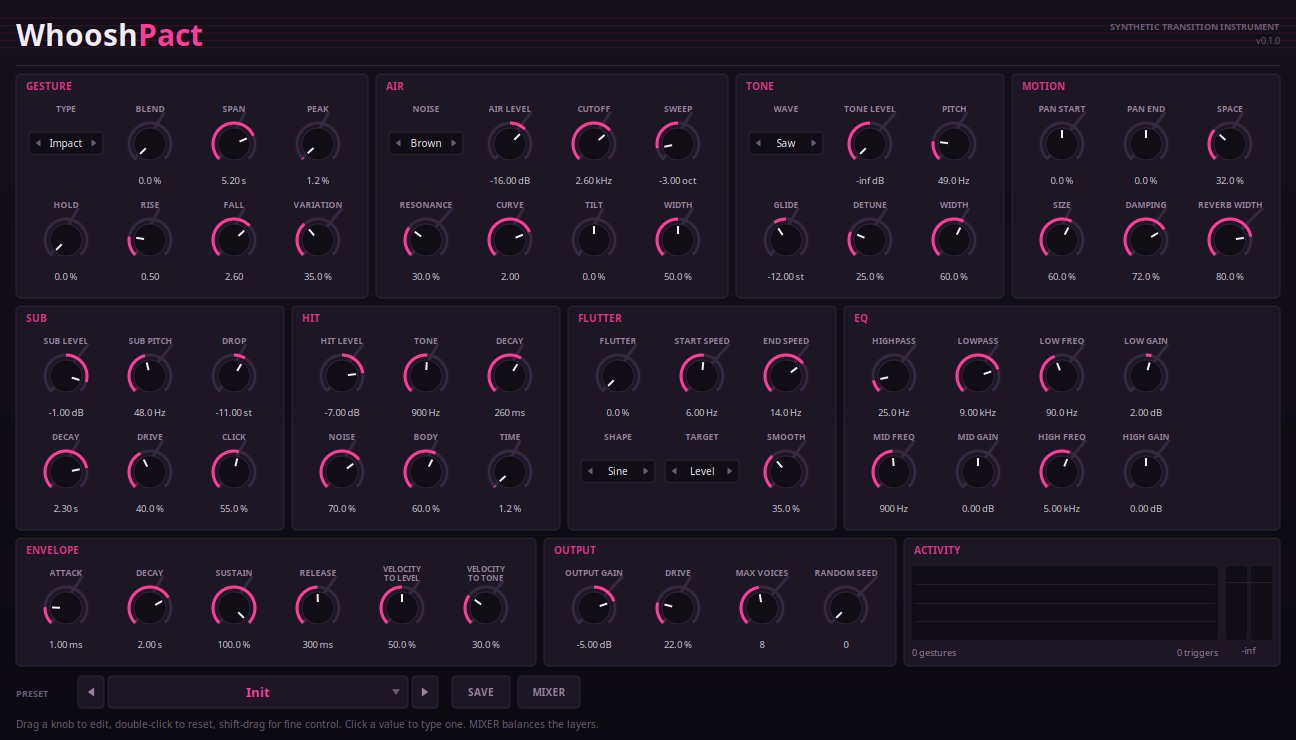
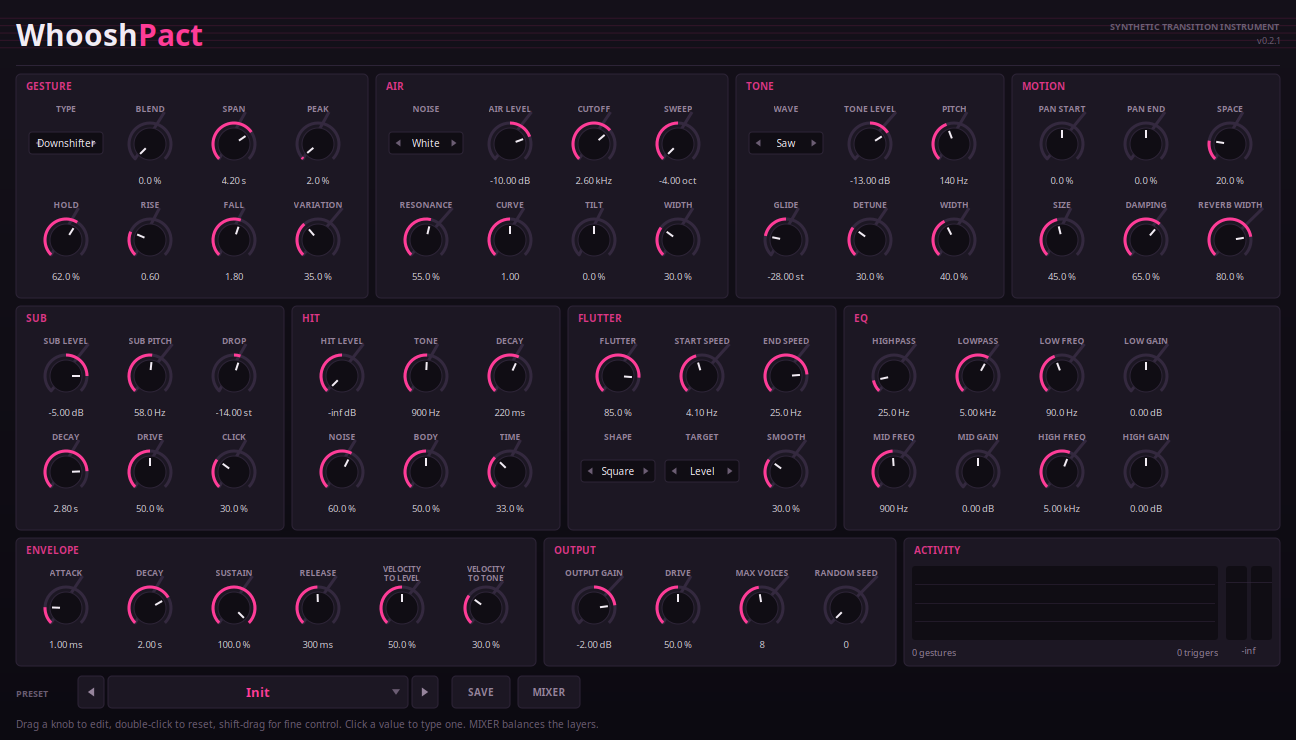
Suite: mark WhooshPact as the non-nature instrument, and retake its screenshot
The suite is presented as instruments that model natural sound sources, which is
true of seven of the eight. WhooshPact is a production-effects instrument for
transitions, impacts and stings, and reading the front page gave no way to tell.

- The subtitle now covers both, and a paragraph after the opening rule says
  plainly that WhooshPact models no natural source and is an addition to the
  suite rather than part of its nature collection.
- The plugin table marks it as not a natural source, and carries 0.2.1.
- ThunderClap's paragraph said 17 presets; it ships 18.

The window screenshot was taken at 0.1.0 and showed that version in its header.
Retaken at 0.2.1 with Stutter Scream loaded, which is the only factory preset
that puts the Flutter section to work -- every previous shot left that panel
reading as inert.

diff --git a/README.md b/README.md
@@ -7,7 +7,8 @@
 </p>
 
 <p align="center">
-  <strong>A suite of native CLAP and VST3 instruments that synthesise the weather.</strong><br>
+  <strong>A suite of native CLAP and VST3 instruments that synthesise the weather —<br>
+  and one that synthesises the effects you cut it with.</strong><br>
   Every sound the instruments make is computed at run time.
 </p>
 
@@ -17,6 +18,12 @@ Verdalis is a family of audio plugins built around a single rule: **nothing is
 sampled.** Every sound is generated from noise, oscillators, filters and the
 physical statistics of the phenomenon being modelled. No two instances ever
 produce the same output.
+
+Most of them model a natural sound source. **WhooshPact does not, and is not
+meant to** — it is a production-effects instrument for transitions, impacts and
+stings, built to the same synthesis-only rule and sharing the same foundation.
+Treat it as an addition to the suite rather than as part of its nature
+collection.
 
 Each plugin is a self-contained instrument with its own synthesis engine, its
 own factory presets — fitted against real reference recordings — and a
@@ -36,7 +43,7 @@ preset library and a window.
 | **[ChirpParade](chirpparade/)** — birds, from a single chirp to a dawn chorus | bird chirps | 0.6.0 |
 | **[RiverFlow](riverflow/)** — running water, from a river's roar to one drop on stone | rivers, streams | 0.2.0 |
 | **[CrackleBlaze](crackleblaze/)** — fire, from a cottage hearth to a burning roof | fire | 0.1.0 |
-| **[WhooshPact](whooshpact/)** — transitions and impacts, from a passing whoosh to a cinematic boom | transitions, impacts | 0.2.0 |
+| **[WhooshPact](whooshpact/)** — transitions and impacts, from a passing whoosh to a cinematic boom | transitions, impacts *(not a natural source)* | 0.2.1 |
 
 Every plugin shares the suite's visual language, its synthesis-only principle,
 and a common DSP and GUI foundation.
@@ -46,7 +53,7 @@ field, distance, space, filter and a full ADSR. 17 factory presets, each fitted
 against a real recording of the thing it imitates.
 
 **ThunderClap** — shock-wave modelling from the bolt channel outwards, with
-distance-dependent air absorption. 17 presets from a distant rumble to a strike
+distance-dependent air absorption. 18 presets from a distant rumble to a strike
 directly overhead, and a window that flashes with the bolt.
 
 **ShoreBreak** — a breaking wave in four overlapping layers: the crest
